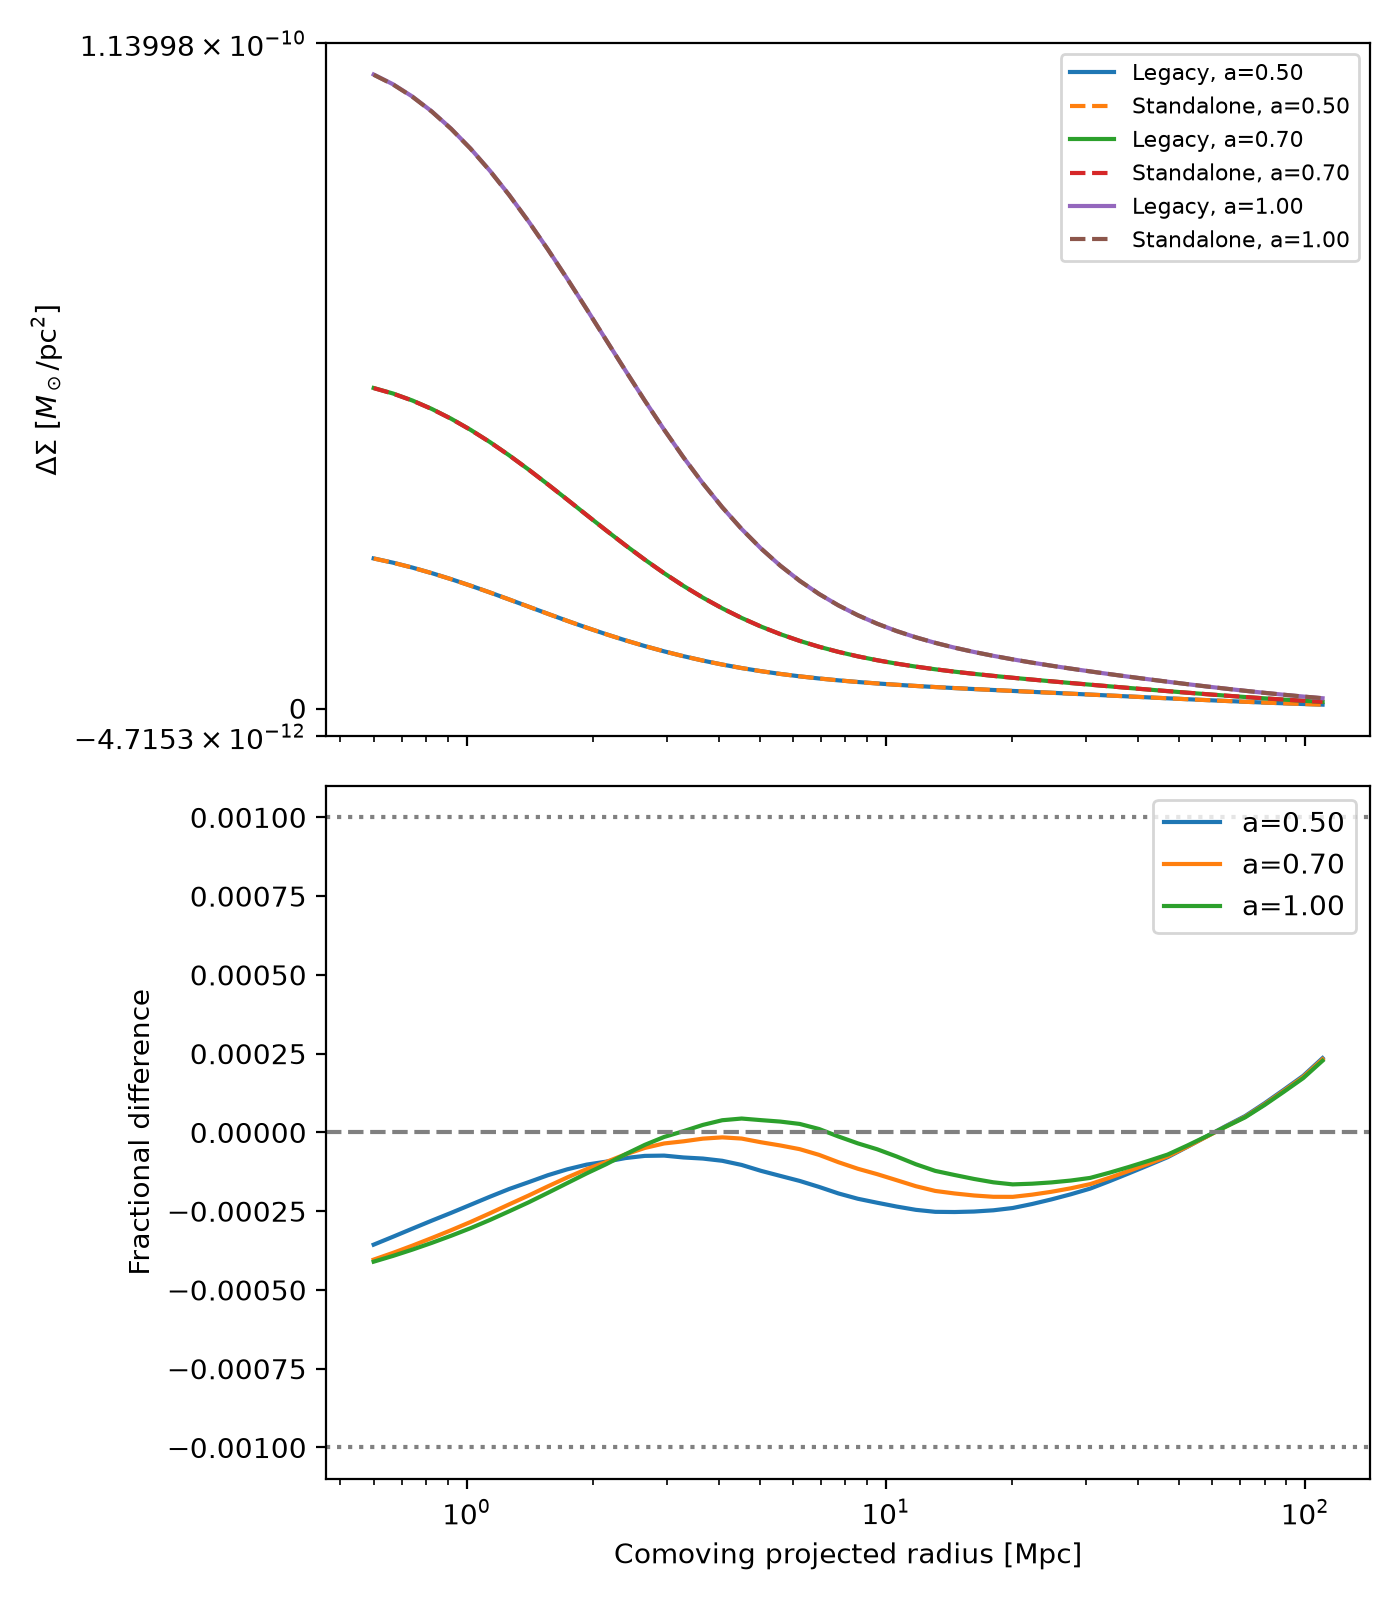
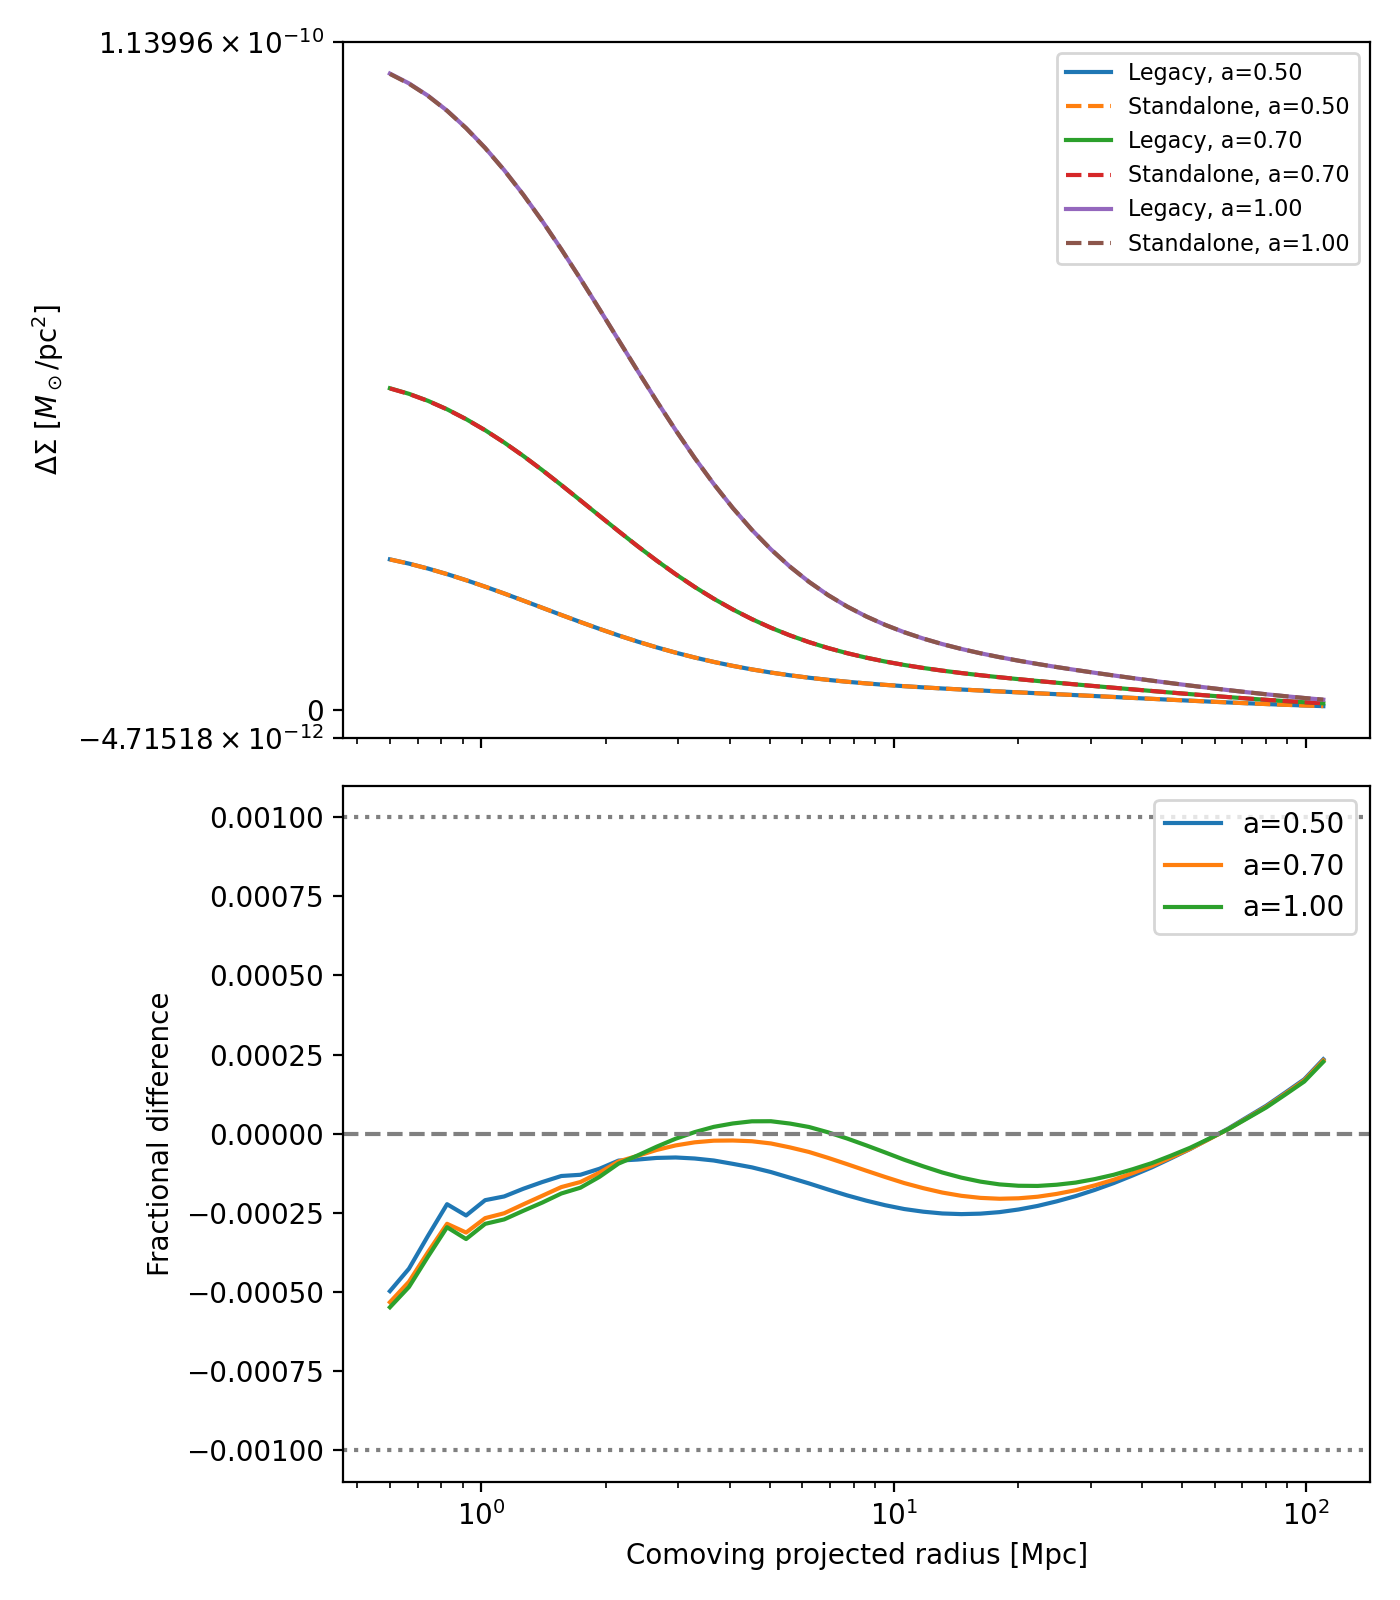
Update tests

diff --git a/tests/test_datavec_ccl_integration.py b/tests/test_datavec_ccl_integration.py
@@ -19,7 +19,7 @@ class DummyPk2D:
         """Return a Gaussian spectrum while recording inputs."""
         k = np.asarray(k, dtype=float)
         self.calls.append((k.copy(), a))
-        return a * np.exp(-k**2)
+        return a * np.exp(-(k**2))
 
 
 def test_delta_sigma_stores_pk2d_object():
@@ -48,11 +48,10 @@ def test_delta_sigma_uses_fftlog_backend():
 )
 def test_delta_sigma_configures_wavenumber_grid(k_min, k_max, n_k):
     """Tests that the requested logarithmic wavenumber grid is constructed."""
+    k = np.geomspace(k_min, k_max, n_k)
     projection = DeltaSigma(
         pk2d=DummyPk2D(),
-        k_min=k_min,
-        k_max=k_max,
-        n_k=n_k,
+        k=k,
     )
 
     assert projection.k.shape == (n_k,)
@@ -77,21 +76,23 @@ def test_delta_sigma_configures_wavenumber_grid(k_min, k_max, n_k):
 )
 def test_delta_sigma_rejects_invalid_wavenumber_bounds(k_min, k_max):
     """Tests that invalid wavenumber bounds raise a ValueError."""
+    k = np.array([k_min, k_max], dtype=float)
     with pytest.raises(ValueError):
-        DeltaSigma(pk2d=DummyPk2D(), k_min=k_min, k_max=k_max)
+        DeltaSigma(pk2d=DummyPk2D(), k=k)
 
 
-@pytest.mark.parametrize("n_k", [0, 1, -1])
-def test_delta_sigma_rejects_invalid_grid_size(n_k):
+def test_delta_sigma_rejects_invalid_grid_size():
     """Tests that the wavenumber grid requires at least two samples."""
-    with pytest.raises(ValueError, match="n_k must be at least 2"):
-        DeltaSigma(pk2d=DummyPk2D(), n_k=n_k)
+    k = np.array([1.0])
+    with pytest.raises(ValueError, match="k must contain at least 2 values."):
+        DeltaSigma(pk2d=DummyPk2D(), k=k)
 
 
 def test_delta_sigma_forwards_wavenumbers_and_scale_factor():
     """Tests that the stored Pk2D receives the configured grid and scale factor."""
     pk2d = DummyPk2D()
-    projection = DeltaSigma(pk2d=pk2d, k_min=1.0e-3, k_max=1.0e3, n_k=256)
+    k = np.geomspace(1.0e-3, 1.0e3, 256)
+    projection = DeltaSigma(pk2d=pk2d, k=k)
 
     projection.delta_sigma(cosmo=None, r=np.array([0.5, 1.0]), a=0.7)
 
@@ -104,7 +105,8 @@ def test_delta_sigma_forwards_wavenumbers_and_scale_factor():
 
 def test_delta_sigma_returns_expected_shape():
     """Tests that the projected profile matches the requested radial grid."""
-    projection = DeltaSigma(pk2d=DummyPk2D(), n_k=1024)
+    k = np.geomspace(1.0e-6, 1.0e6, 1024)
+    projection = DeltaSigma(pk2d=DummyPk2D(), k=k)
     r = np.geomspace(0.1, 10.0, 20)
 
     result = projection.delta_sigma(cosmo=None, r=r, a=0.8)
@@ -116,7 +118,8 @@ def test_delta_sigma_returns_expected_shape():
 @pytest.mark.parametrize("a", [0.25, 0.5, 1.0])
 def test_delta_sigma_scales_with_pk2d_amplitude(a):
     """Tests that the projected profile scales linearly with the input spectrum."""
-    projection = DeltaSigma(pk2d=DummyPk2D(), n_k=1024)
+    k = np.geomspace(1.0e-6, 1.0e6, 1024)
+    projection = DeltaSigma(pk2d=DummyPk2D(), k=k)
     r = np.geomspace(0.1, 10.0, 20)
 
     reference = projection.delta_sigma(cosmo=None, r=r, a=1.0)
@@ -170,27 +173,25 @@ def test_delta_sigma_matches_direct_hankel_integration():
 
     The reference is evaluated independently using adaptive quadrature.
     """
-    projection = DeltaSigma(
-        pk2d=DummyPk2D(),
-        k_min=1.0e-4,
-        k_max=1.0e3,
-        n_k=4096,
-    )
+    k = np.geomspace(1.0e-4, 1.0e3, 4096)
+    projection = DeltaSigma(pk2d=DummyPk2D(), k=k)
 
     r = np.geomspace(0.5, 5.0, 10)
     result = projection.delta_sigma(cosmo=None, r=r, a=1.0)
 
-    expected = np.array([
-        quad(
-            lambda k, radius=radius: k * np.exp(-k**2) * jv(2, k * radius) / (2.0 * np.pi),
-            0.0,
-            20.0,
-            args=(),
-            epsabs=1.0e-11,
-            epsrel=1.0e-11,
-        )[0]
-        for radius in r
-    ])
+    expected = np.array(
+        [
+            quad(
+                lambda k, radius=radius: k * np.exp(-(k**2)) * jv(2, k * radius) / (2.0 * np.pi),
+                0.0,
+                20.0,
+                args=(),
+                epsabs=1.0e-11,
+                epsrel=1.0e-11,
+            )[0]
+            for radius in r
+        ]
+    )
 
     np.testing.assert_allclose(result, expected, rtol=1.0e-2, atol=1.0e-6)
 
@@ -222,12 +223,8 @@ def test_delta_sigma_matches_analytic_gaussian_transform():
         """Evaluate the Gaussian Fourier-space profile."""
         return a * np.exp(-alpha * np.asarray(k, dtype=float) ** 2)
 
-    projection = DeltaSigma(
-        pk2d=gaussian_pk,
-        k_min=1.0e-4,
-        k_max=1.0e3,
-        n_k=4096,
-    )
+    k = np.geomspace(1.0e-6, 1.0e6, 4096)
+    projection = DeltaSigma(pk2d=gaussian_pk, k=k)
 
     r = np.geomspace(0.5, 5.0, 20)
     result = projection.delta_sigma(cosmo=None, r=r, a=1.0)
@@ -243,7 +240,7 @@ def test_delta_sigma_is_linear_in_input_spectrum():
 
     def first_pk(k, a):
         """Return the first Gaussian spectrum."""
-        return a * np.exp(-np.asarray(k, dtype=float) ** 2)
+        return a * np.exp(-(np.asarray(k, dtype=float) ** 2))
 
     def second_pk(k, a):
         """Return the second Gaussian spectrum."""
@@ -253,11 +250,11 @@ def test_delta_sigma_is_linear_in_input_spectrum():
         """Return the sum of both spectra."""
         return first_pk(k, a) + second_pk(k, a)
 
-    kwargs = {"k_min": 1.0e-4, "k_max": 1.0e3, "n_k": 2048}
+    k = np.geomspace(1.0e-4, 1.0e3, 2048)
 
-    first = DeltaSigma(pk2d=first_pk, **kwargs)
-    second = DeltaSigma(pk2d=second_pk, **kwargs)
-    combined = DeltaSigma(pk2d=combined_pk, **kwargs)
+    first = DeltaSigma(pk2d=first_pk, k=k)
+    second = DeltaSigma(pk2d=second_pk, k=k)
+    combined = DeltaSigma(pk2d=combined_pk, k=k)
 
     r = np.geomspace(0.5, 5.0, 20)
 
@@ -275,12 +272,8 @@ def test_delta_sigma_is_linear_in_input_spectrum():
 
 def test_delta_sigma_preserves_radius_order():
     """Tests that the projection preserves the ordering of requested radii."""
-    projection = DeltaSigma(
-        pk2d=DummyPk2D(),
-        k_min=1.0e-4,
-        k_max=1.0e3,
-        n_k=2048,
-    )
+    k = np.geomspace(1.0e-4, 1.0e3, 2048)
+    projection = DeltaSigma(pk2d=DummyPk2D(), k=k)
 
     r_sorted = np.array([0.5, 1.0, 2.0, 5.0])
     r_unsorted = np.array([5.0, 0.5, 2.0, 1.0])
@@ -295,7 +288,8 @@ def test_delta_sigma_preserves_radius_order():
 
 def test_delta_sigma_is_independent_of_cosmology_argument():
     """Tests that the projection depends only on the supplied Pk2D object."""
-    projection = DeltaSigma(pk2d=DummyPk2D(), n_k=1024)
+    k = np.geomspace(1.0e-6, 1.0e6, 1024)
+    projection = DeltaSigma(pk2d=DummyPk2D(), k=k)
     r = np.geomspace(0.5, 5.0, 10)
 
     result_none = projection.delta_sigma(cosmo=None, r=r, a=0.7)
@@ -308,18 +302,20 @@ def test_delta_sigma_converges_with_wavenumber_resolution():
     """Tests numerical stability as the FFTLog wavenumber grid is refined."""
     r = np.geomspace(0.5, 5.0, 20)
 
-    coarse = DeltaSigma(
-        pk2d=DummyPk2D(),
-        k_min=1.0e-4,
-        k_max=1.0e3,
-        n_k=2048,
-    )
+    k_coarse = np.geomspace(1.0e-4, 1.0e3, 2048)
+    coarse = DeltaSigma(pk2d=DummyPk2D(), k=k_coarse)
 
-    fine = DeltaSigma(
-        pk2d=DummyPk2D(),
-        k_min=1.0e-4,
-        k_max=1.0e3,
-        n_k=4096,
+    k_fine = np.geomspace(1.0e-4, 1.0e3, 4096)
+    fine = DeltaSigma(pk2d=DummyPk2D(), k=k_fine)
+
+    coarse_result = coarse.delta_sigma(cosmo=None, r=r, a=1.0)
+    fine_result = fine.delta_sigma(cosmo=None, r=r, a=1.0)
+
+    np.testing.assert_allclose(
+        coarse_result,
+        fine_result,
+        rtol=1.0e-2,
+        atol=1.0e-6,
     )
 
     coarse_result = coarse.delta_sigma(cosmo=None, r=r, a=1.0)
@@ -342,20 +338,12 @@ def test_delta_sigma_suppresses_fftlog_ringing():
         return a / (1.0 + k**2)
 
     r = np.geomspace(0.2, 30.0, 24)
+    k_ref = np.geomspace(1.0e-6, 1.0e6, 5000)
 
-    reference = DeltaSigma(
-        pk2d=power_spectrum,
-        k_min=1.0e-6,
-        k_max=1.0e6,
-        n_k=5000,
-    )
+    reference = DeltaSigma(pk2d=power_spectrum, k=k_ref)
 
-    comparison = DeltaSigma(
-        pk2d=power_spectrum,
-        k_min=1.0e-4,
-        k_max=1.0e4,
-        n_k=5000,
-    )
+    k_comp = np.geomspace(1.0e-4, 1.0e4, 5000)
+    comparison = DeltaSigma(pk2d=power_spectrum, k=k_comp)
 
     reference_result = reference.delta_sigma(cosmo=None, r=r, a=0.7)
     comparison_result = comparison.delta_sigma(cosmo=None, r=r, a=0.7)

diff --git a/tests/test_datavec_delta_sigma_builder.py b/tests/test_datavec_delta_sigma_builder.py
@@ -119,9 +119,7 @@ def test_delta_sigma_from_profile_rejects_non_finite_values():
     """Tests that non-finite Delta Sigma values raise an error."""
     calculator = DeltaSigmaCalculator(pk2d_func=DummyPk2DFunction())
 
-    with pytest.raises(
-        FloatingPointError, match="Non-finite Delta Sigma values"
-    ):
+    with pytest.raises(FloatingPointError, match="Non-finite Delta Sigma values"):
         calculator._delta_sigma_from_profile(
             profile=NonFiniteProfile(),
             r=np.array([1.0, 2.0, 3.0]),
@@ -210,8 +208,7 @@ def test_delta_sigma_lens_bin_applies_redshift_window(patch_delta_sigma):
 
     expected = np.full(
         r.size,
-        np.trapezoid(nz_use * a_use * 2.0, z_use)
-        / np.trapezoid(nz_use, z_use),
+        np.trapezoid(nz_use * a_use * 2.0, z_use) / np.trapezoid(nz_use, z_use),
     )
 
     np.testing.assert_allclose(result, expected)
@@ -238,8 +235,7 @@ def test_delta_sigma_lens_bin_trims_edge_points(patch_delta_sigma):
 
     expected = np.full(
         r.size,
-        np.trapezoid(nz_use * a_use * 2.0, z_use)
-        / np.trapezoid(nz_use, z_use),
+        np.trapezoid(nz_use * a_use * 2.0, z_use) / np.trapezoid(nz_use, z_use),
     )
 
     np.testing.assert_allclose(result, expected)
@@ -334,9 +330,7 @@ def test_delta_sigma_lens_bin_raises_before_integration_for_non_finite_values(
         bad_delta_sigma_from_profile,
     )
 
-    with pytest.raises(
-        FloatingPointError, match="before redshift integration"
-    ):
+    with pytest.raises(FloatingPointError, match="before redshift integration"):
         calculator.delta_sigma_lens_bin(
             r=np.array([1.0, 2.0]),
             lens_dndz=(np.array([0.1, 0.2, 0.3]), np.ones(3)),
@@ -361,9 +355,7 @@ def test_delta_sigma_lens_bin_raises_after_integration_for_non_finite_values(
         finite_then_infinite_delta_sigma_from_profile,
     )
 
-    with pytest.raises(
-        FloatingPointError, match="before redshift integration"
-    ):
+    with pytest.raises(FloatingPointError, match="before redshift integration"):
         calculator.delta_sigma_lens_bin(
             r=np.array([1.0, 2.0]),
             lens_dndz=(np.array([0.1, 0.2, 0.3]), np.ones(3)),
@@ -489,9 +481,7 @@ def test_delta_sigma_lens_bin_forwards_pk2d_kwargs(patch_delta_sigma):
         pk2d_kwargs={"model": "nonlinear", "amplitude": 2.0},
     )
 
-    assert pk2d_func.calls == [
-        {"cosmo": "cosmo", "model": "nonlinear", "amplitude": 2.0}
-    ]
+    assert pk2d_func.calls == [{"cosmo": "cosmo", "model": "nonlinear", "amplitude": 2.0}]
 
 
 def test_stacked_delta_sigma_builds_projection_once(patch_delta_sigma):
